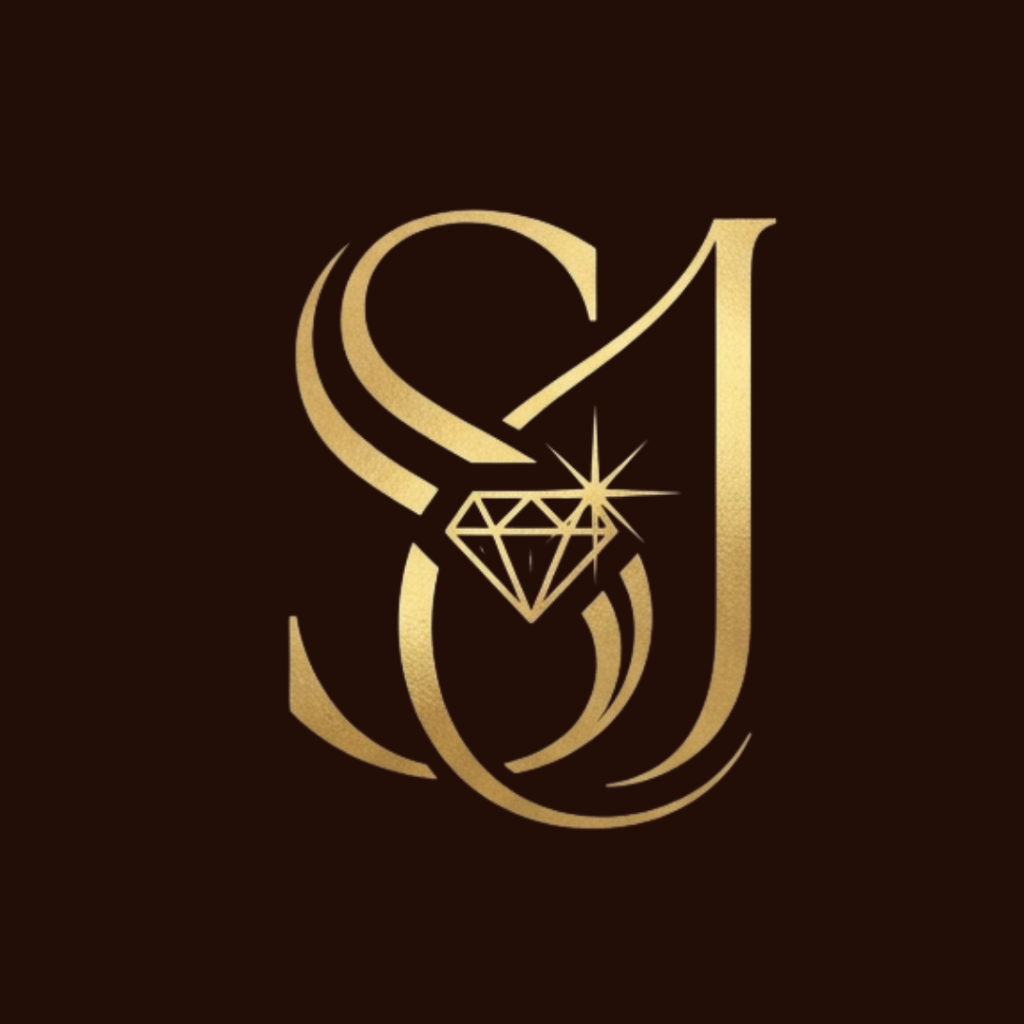
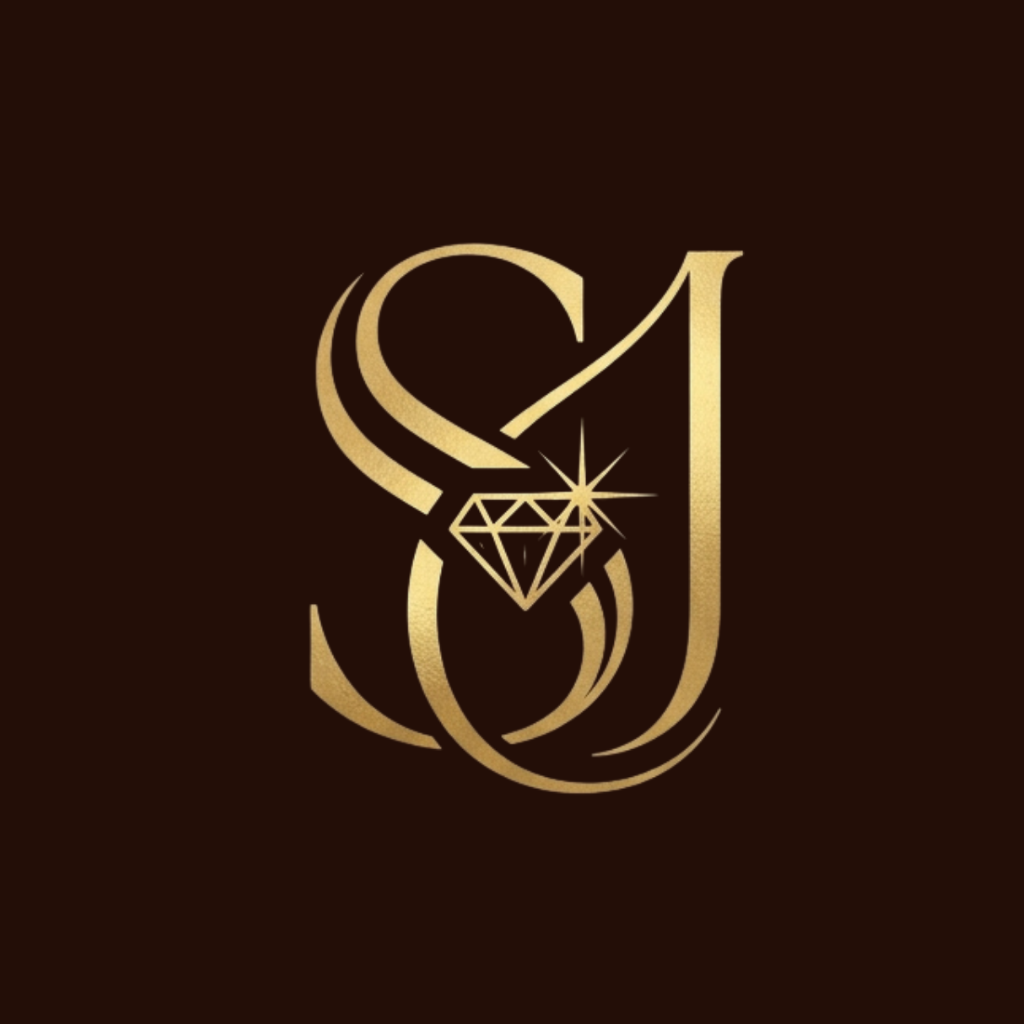
style: slightly zoom in Shine Jewels project image

Changed region(s): [[0.2812, 0.1875, 0.75, 0.8125]]

diff --git a/src/components/Projects.tsx b/src/components/Projects.tsx
@@ -87,7 +87,7 @@ const projects: Project[] = [
     image: "/Assets/Projects/ShineJewels.png",
     index: "09",
     link: "https://shine-jewels.vercel.app/",
-    scale: 0.9,
+    scale: 0.95,
     bgColor: "#1A0F0E"
   },
 ];
